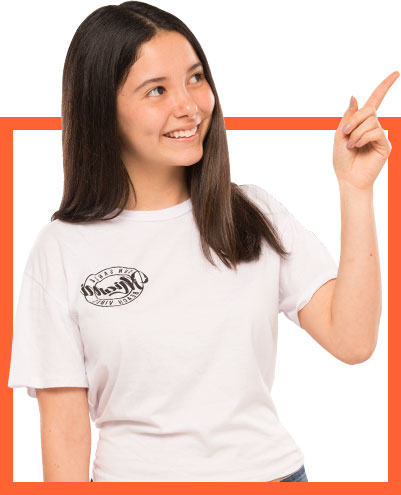
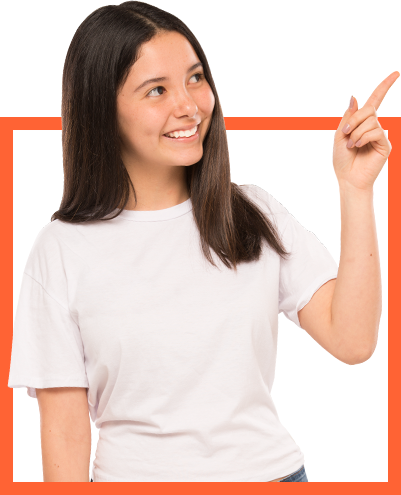
changes many

Changed region(s): [[0.1796, 0.5152, 0.389, 0.6364], [0.419, 0.2424, 0.5087, 0.303]]

diff --git a/resources/assets/sass/pages/academia/_main.scss b/resources/assets/sass/pages/academia/_main.scss
@@ -67,6 +67,8 @@
         >img{
           opacity: 0.4;
           filter: alpha(opacity=40);
+          max-width: 120px;
+          min-height: 120px;
         }
       }
 
@@ -117,6 +119,7 @@
           img{
             max-width: 50%;
             margin-bottom: 10%;
+            min-height: 100px;
           }
 
           h3{

diff --git a/resources/assets/sass/components/_nav.scss b/resources/assets/sass/components/_nav.scss
@@ -248,7 +248,7 @@
 
   .dd-colegio-aboutus-rocket{
     background: $colegio_gray;
-    background-image: url('/static/images/colegio/imagen-menu-pe.jpg');
+    background-image: url('/static/images/colegio/svg/img-menu-pe.svg');
     background-repeat: no-repeat;
     background-size: contain;
 

diff --git a/resources/assets/sass/base/_loader_wrapper.scss b/resources/assets/sass/base/_loader_wrapper.scss
@@ -62,7 +62,7 @@
   &:before{
     border-top-color: $colegio_blue !important;
   }
-  
+
   &:after{
     border-top-color: $colegio_yellow !important;
   }
@@ -146,6 +146,6 @@
   z-index: 1001;
 }
 
-.loader-trilce img{
+.loader-trilce svg{
   max-width: 40%;
 }

diff --git a/resources/assets/sass/pages/academia/_enrollment.scss b/resources/assets/sass/pages/academia/_enrollment.scss
@@ -235,6 +235,7 @@
 
 .tab{
   display: none;
+  margin-top: 20px;
 }
 
 .stepsarrows{

diff --git a/resources/views/home.blade.php b/resources/views/home.blade.php
@@ -17,9 +17,10 @@
           <div id="loader"></div>
           <div class="loader-section section-left"></div>
           <div class="loader-section section-right"></div>
-          
+
           <div class="loader-trilce">
[2 lines of base64/hex data omitted]
+            <svg xmlns="http://www.w3.org/2000/svg" viewBox="0 0 91.9 100.3"><polygon points="0 0 0 22.6 14.6 22.6 14.6 16.7 36.9 16.7 36.9 85.7 30.2 85.7 30.2 100.3 61.8 100.3 61.8 85.7 55.1 85.7 55.1 16.7 77.4 16.7 77.4 22.6 91.9 22.6 91.9 0 0 0" fill="#f4633a"/></svg>
           </div>
       </div>
       <div class="h-all">
@@ -55,7 +56,7 @@
             </div>
           </section>
         </div>
-        
+
[1 lines of base64/hex data omitted]
           <video loop muted ref="video" id="videoTag">
           </video>

diff --git a/resources/views/colegio/layouts/template.blade.php b/resources/views/colegio/layouts/template.blade.php
@@ -19,7 +19,7 @@
   <header>
     <div class="row between-xs">
       <div class="col-xs-2 logo">
-        <a href="/colegio"><img src="{{{ asset('static/images/colegio/logo-colegio.png') }}}" alt="Trilce"></a>
+        <a href="/colegio"><img src="{{{ asset('static/images/logos/logo-trilce-colegio.svg') }}}" alt="Trilce"></a>
       </div>
       <div class="row col-xs col-sm-9 col-lg-10 end-xs pre-nav">
           <div class="col-xs-12 nav-info">
@@ -31,10 +31,10 @@
               <div class="toogle-content">
                 <label for="menu-toggle" class="label-toggle"><i class="fa fa-bars"></i></label>
               </div>
-              
+
               <ul>
                 <li class="nav-info-responsive nav-info-colegio">Intranet para alumnos | Call center: <b class="phone">6198100</b></li>
-                
+
                 <li class="nav-colegio-aboutus">
                   <a href="/colegio/nosotros" class="{{ (Request::is('colegio/nosotros')?'nav-item-active nav-item-noclick':'') }}">Nosotros</a>
                   <div class="dropdown-desk xs-hide-force">
@@ -44,9 +44,9 @@
                           <div class="row col-xs-4 dd-colegio-aboutus-textleft">
                             <h2><i class="fa fa-graduation-cap"></i> Propuesta educativa</h2>
                           </div>
-                          
+
                           <div class="col-xs dd-colegio-aboutus-rocket"></div>
-                          
+
                           <div class="row col-xs dd-colegio-aboutus-textright">
                             <h2>Vive la aventura de estudiar en Trilce.<br /> Comienza el viaje..</h2>
                           </div>
@@ -60,7 +60,7 @@
                 <li class="nav-colegio-aboutusmobile">
                   <a href="/colegio/propuesta-educativa" class="aboutusmobile-link"><img src="{{url('static/images/colegio/imagen-menu-pe-movil.jpg')}}" alt="Propuesta educativa"></a>
                 </li>
-                
+
                 <li class="nav-venues xs-hide" id="sedes">
                   <a href="#" class="{{ (Request::is('colegio/sede/*')?'nav-item-active':'') }}">Sedes</a>
                   <div class="dropdown-desk">
@@ -68,11 +68,11 @@
 
                       <div class="row col-xs-12">
                         <div class="row col-xs-8">
-                          
+
                           <div class="col-xs-3 venues-in">
                             <h3 class="title"><i class="fa fa-map-marker marker"></i><br> Sedes en <br><strong>Lima</strong></h3>
                           </div>
-                          
+
                           <div class="row col-xs linkslima block-capital">
                             <div class="col-xs">
                               <ul class="ul-venue">
@@ -102,7 +102,7 @@
                             </div>
                           </div>
                         </div>
-                        
+
                         <div class="row col-xs-4 block-province">
                           <div class="col-xs venues-in titleblockprovincia">
                             <h3 class="title provincia"><i class="fa fa-map-marker marker"></i><br> Sedes en <br><strong>Provincia</strong></h3>
@@ -119,7 +119,7 @@
                           </div>
                         </div>
                       </div>
-                    
+
                     </div>
                   </div>
                 </li>
@@ -168,19 +168,19 @@
                 <li><a href="/colegio/contacto" class="{{ (Request::is('colegio/contacto')?'nav-item-active nav-item-noclick':'') }}">Contáctenos</a></li>
               </ul>
             </nav>
-            
+
           </div>
       </div>
     </div>
   </header>
-  
+
 @yield('content')
 
 @include('colegio.layouts.parts.footer')
 
 <script>
   var page;
-  
+
   @section('scripts')
 </script>
 <script src="{{ mix('/js/app_colegio.js') }}" charset="utf-8"></script>

diff --git a/resources/views/academia/index.blade.php b/resources/views/academia/index.blade.php
@@ -4,7 +4,7 @@
 @section('title', '')
 @section('afterBody', $print)
 @section('content')
-  
+
   <div class="index-banners">
     <div><a href="http://google.com/" target="_blank"><img src="http://www.trilce.edu.pe/assets/img/slider/solucionario-uni-2018-fisica-y-quimica.png" alt="#"></a></div>
     <div><a href="http://google.com/" target="_blank"><img src="http://www.trilce.edu.pe/assets/img/slider/felicitaciones-primer-puesto-pucp-2018-1.png" alt="#"></a></div>
@@ -22,12 +22,12 @@
           <p>Elija la preparacion universitaria, exclusiva que está buscando</p>
         </div>
       </div>
-      
+
       <div class="row nuevos-i-box col-xs-12 col-sm-11 col-md-10 col-lg-9 between-xs center-sm center-md center-lg block-effecthover">
         <div class="col-xs block-effecthover-item">
           <a href="/academia/preparacion-uni">
             <div class="nuevos-i-top">
-              <img src="/static/images/academia/ico-logo-uni.jpg" alt="UNI">
+              <img src="/static/images/svg/university_logo_uni.svg" alt="UNI">
               <h4>Preparación</h4>
               <h3>UNI</h3>
             </div>
@@ -40,7 +40,7 @@
         <div class="col-xs block-effecthover-item">
           <a href="/academia/preparacion-san-marcos">
             <div class="nuevos-i-top">
-              <img src="/static/images/academia/ico-logo-sm.jpg" alt="UNMSM">
+              <img src="/static/images/svg/university_logo_unmsm.svg" alt="UNMSM">
               <h4>Preparación</h4>
               <h3>San Marcos</h3>
             </div>
@@ -53,7 +53,7 @@
         <div class="col-xs block-effecthover-item">
           <a href="/academia/preparacion-pucp">
             <div class="nuevos-i-top">
-              <img src="/static/images/academia/ico-logo-cato.jpg" alt="PUCP">
+              <img src="/static/images/svg/university_logo_pucp.svg" alt="PUCP">
               <h4>Preparación</h4>
               <h3>PUCP</h3>
             </div>
@@ -64,15 +64,15 @@
           </a>
         </div>
       </div>
-      
+
     </div>
   </div>
-  
+
   @include('academia.partials.card_bottom')
 @endsection
 @section('scripts')
-  
+
     page = 'index';
-    
+
     @parent
 @endsection

diff --git a/resources/views/academia/layouts/template.blade.php b/resources/views/academia/layouts/template.blade.php
@@ -19,7 +19,7 @@
   <header>
     <div class="row between-xs">
       <div class="col-xs-2 logo">
-        <a href="/academia/"><img src="{{{ asset('static/images/academia/logo.png') }}}" alt="Trilce"></a>
+        <a href="/academia/"><img src="{{{ asset('static/images/logos/logo-trilce-academia.svg') }}}" alt="Trilce"></a>
       </div>
       <div class="row col-xs col-sm-9 col-lg-10 end-xs pre-nav">
           <div class="col-xs-12 nav-info">
@@ -31,7 +31,7 @@
               <div class="toogle-content">
                 <label for="menu-toggle" class="label-toggle"><i class="fa fa-bars"></i></label>
               </div>
-              
+
               <ul>
                 <li class="nav-info-responsive">Intranet para alumnos | Call center: <b>6198100</b></li>
                 <li class=""><a href="/academia/nosotros" class="{{ (Request::is('academia/nosotros')?'nav-item-active nav-item-noclick':'') }}">Nosotros</a></li>
@@ -88,26 +88,26 @@
                     <li><a href="/academia/sede/san-isidro">San Isidro</a></li>
                   </ul>
                 </li>
-                
+
                 <li class=""><a href="/academia/matricula-en-linea" class="{{ (Request::is('academia/matricula-en-linea')?'nav-item-active nav-item-noclick':'') }}">Matrícula en linea</a></li>
                 <li class="disable"><a>Blog</a></li>
                 <li class="disable"><a>Multimedia</a></li>
                 <li class=""><a href="/academia/contacto" class="{{ (Request::is('academia/contacto')?'nav-item-active nav-item-noclick':'') }}">Contáctenos</a></li>
               </ul>
             </nav>
-            
+
           </div>
       </div>
     </div>
   </header>
-  
+
 @yield('content')
 
 @include('academia.layouts.parts.footer')
 
 <script>
   var page;
-  
+
 @section('scripts')
 </script>
 <script src="{{ mix('/js/app_academia.js') }}" charset="utf-8"></script>

diff --git a/resources/views/academia/solution.blade.php b/resources/views/academia/solution.blade.php
@@ -22,7 +22,7 @@
         <div class="col-xs-4 col-sm-3 col-md-3 col-lg-3 @if($university->short_name=='UNI') nuevos-i-active @endif">
           <a href="/academia/solucionarios-uni">
             <div class="nuevos-i-top">
-              <img src="/static/images/academia/ico-logo-uni.jpg" alt="UNI">
+              <img src="/static/images/svg/university_logo_uni.svg" alt="UNI">
               <h4>Simulacro</h4>
               <h3>UNI</h3>
             </div>
@@ -35,7 +35,7 @@
         <div class="col-xs-4 col-sm-3 col-md-3 col-lg-3 @if($university->short_name=='San Marcos') nuevos-i-active @endif">
           <a href="/academia/solucionarios-san-marcos">
             <div class="nuevos-i-top">
-              <img src="/static/images/academia/ico-logo-sm.jpg" alt="UNMSM">
+              <img src="/static/images/svg/university_logo_unmsm.svg" alt="UNMSM">
               <h4>Simulacro</h4>
               <h3>UNMSM</h3>
             </div>
@@ -48,7 +48,7 @@
         <div class="col-xs-4 col-sm-3 col-md-3 col-lg-3 @if($university->short_name=='PUCP') nuevos-i-active @endif">
           <a href="/academia/solucionarios-pucp">
             <div class="nuevos-i-top">
-              <img src="/static/images/academia/ico-logo-cato.jpg" alt="PUCP">
+              <img src="/static/images/svg/university_logo_pucp.svg" alt="PUCP">
               <h4>Simulacro</h4>
               <h3>PUCP</h3>
             </div>

diff --git a/resources/views/academia/simulacrum.blade.php b/resources/views/academia/simulacrum.blade.php
@@ -22,7 +22,7 @@
         <div class="col-xs-4 col-sm-3 col-md-3 col-lg-3 @if($university->short_name=='UNI') nuevos-i-active @endif">
           <a href="/academia/simulacros-uni">
             <div class="nuevos-i-top">
-              <img src="/static/images/academia/ico-logo-uni.jpg" alt="UNI">
+              <img src="/static/images/svg/university_logo_uni.svg" alt="UNI">
               <h4>Simulacro</h4>
               <h3>UNI</h3>
             </div>
@@ -35,7 +35,7 @@
         <div class="col-xs-4 col-sm-3 col-md-3 col-lg-3 @if($university->short_name=='San Marcos') nuevos-i-active @endif">
           <a href="/academia/simulacros-san-marcos">
             <div class="nuevos-i-top">
-              <img src="/static/images/academia/ico-logo-sm.jpg" alt="UNMSM">
+              <img src="/static/images/svg/university_logo_unmsm.svg" alt="UNMSM">
               <h4>Simulacro</h4>
               <h3>San Marcos</h3>
             </div>
@@ -48,7 +48,7 @@
         <div class="col-xs-4 col-sm-3 col-md-3 col-lg-3 @if($university->short_name=='PUCP') nuevos-i-active @endif">
           <a href="/academia/simulacros-pucp">
             <div class="nuevos-i-top">
-              <img src="/static/images/academia/ico-logo-cato.jpg" alt="PUCP">
+              <img src="/static/images/svg/university_logo_pucp.svg" alt="PUCP">
               <h4>Simulacro</h4>
               <h3>PUCP</h3>
             </div>

diff --git a/resources/views/academia/preparation.blade.php b/resources/views/academia/preparation.blade.php
@@ -23,7 +23,7 @@
         <div class="col-xs-4 col-sm-3 col-md-3 col-lg-3 @if($type=='uni') nuevos-i-active @endif">
           <a href="/academia/preparacion-uni">
             <div class="nuevos-i-top">
-              <img src="/static/images/academia/ico-logo-uni.jpg" alt="UNI">
+              <img src="/static/images/svg/university_logo_uni.svg" alt="UNI">
               <h4>Preparación</h4>
               <h3>UNI</h3>
             </div>
@@ -36,7 +36,7 @@
         <div class="col-xs-4 col-sm-3 col-md-3 col-lg-3 @if($type=='san-marcos') nuevos-i-active @endif">
           <a href="/academia/preparacion-san-marcos">
             <div class="nuevos-i-top">
-              <img src="/static/images/academia/ico-logo-sm.jpg" alt="UNMSM">
+              <img src="/static/images/svg/university_logo_unmsm.svg" alt="UNMSM">
               <h4>Preparación</h4>
               <h3>UNMSM</h3>
             </div>
@@ -49,7 +49,7 @@
         <div class="col-xs-4 col-sm-3 col-md-3 col-lg-3 @if($type=='pucp') nuevos-i-active @endif">
           <a href="/academia/preparacion-pucp">
             <div class="nuevos-i-top">
-              <img src="/static/images/academia/ico-logo-cato.jpg" alt="PUCP">
+              <img src="/static/images/svg/university_logo_pucp.svg" alt="PUCP">
               <h4>Preparación</h4>
               <h3>PUCP</h3>
             </div>

diff --git a/resources/views/colegio/venue.blade.php b/resources/views/colegio/venue.blade.php
@@ -125,7 +125,9 @@
                 map:map
             });
 
-            marker.setIcon('{{url('/static/images/map-marker.png')}}');
+            let ico = {url:'{{url('/static/images/map-marker.svg')}}', size: new google.maps.Size(22, 22)};
+
+            marker.setIcon(icon);
 
             if(props.content){
                 var infoWindow = new google.maps.InfoWindow({
